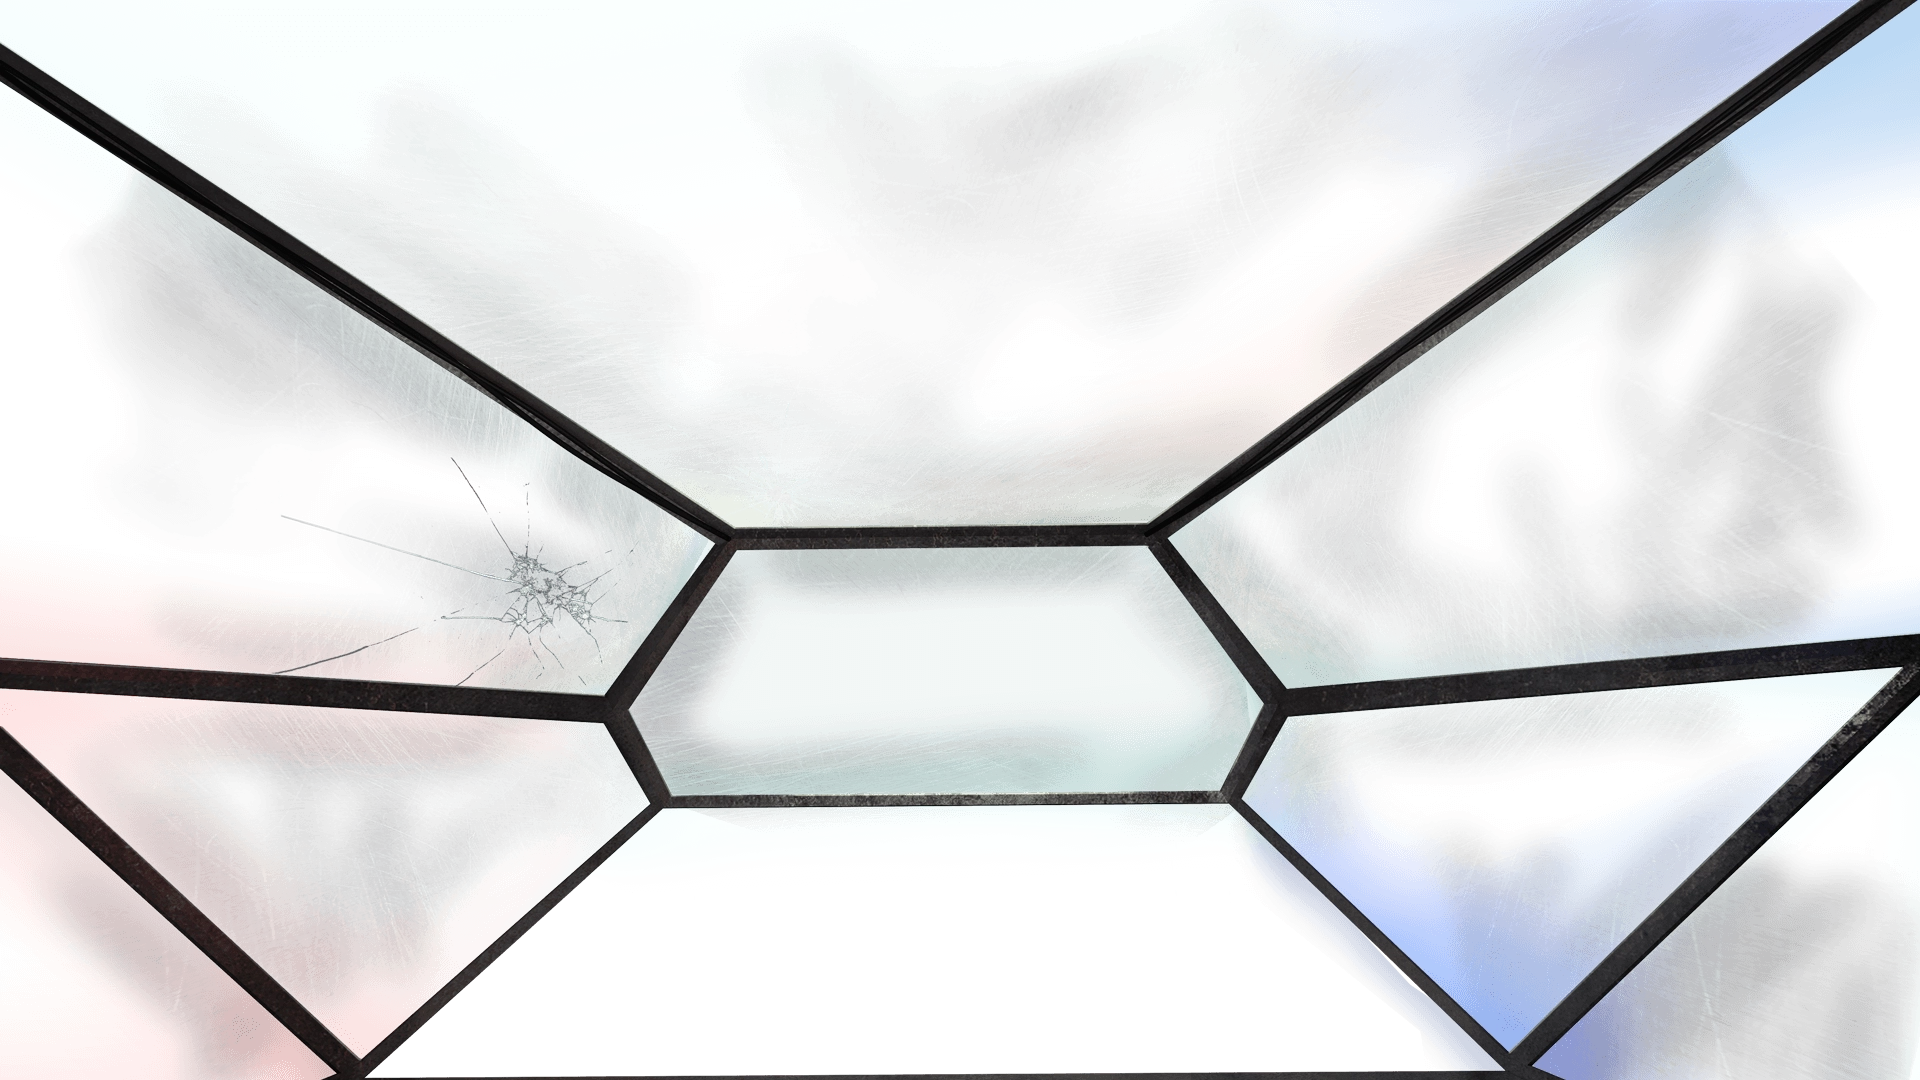
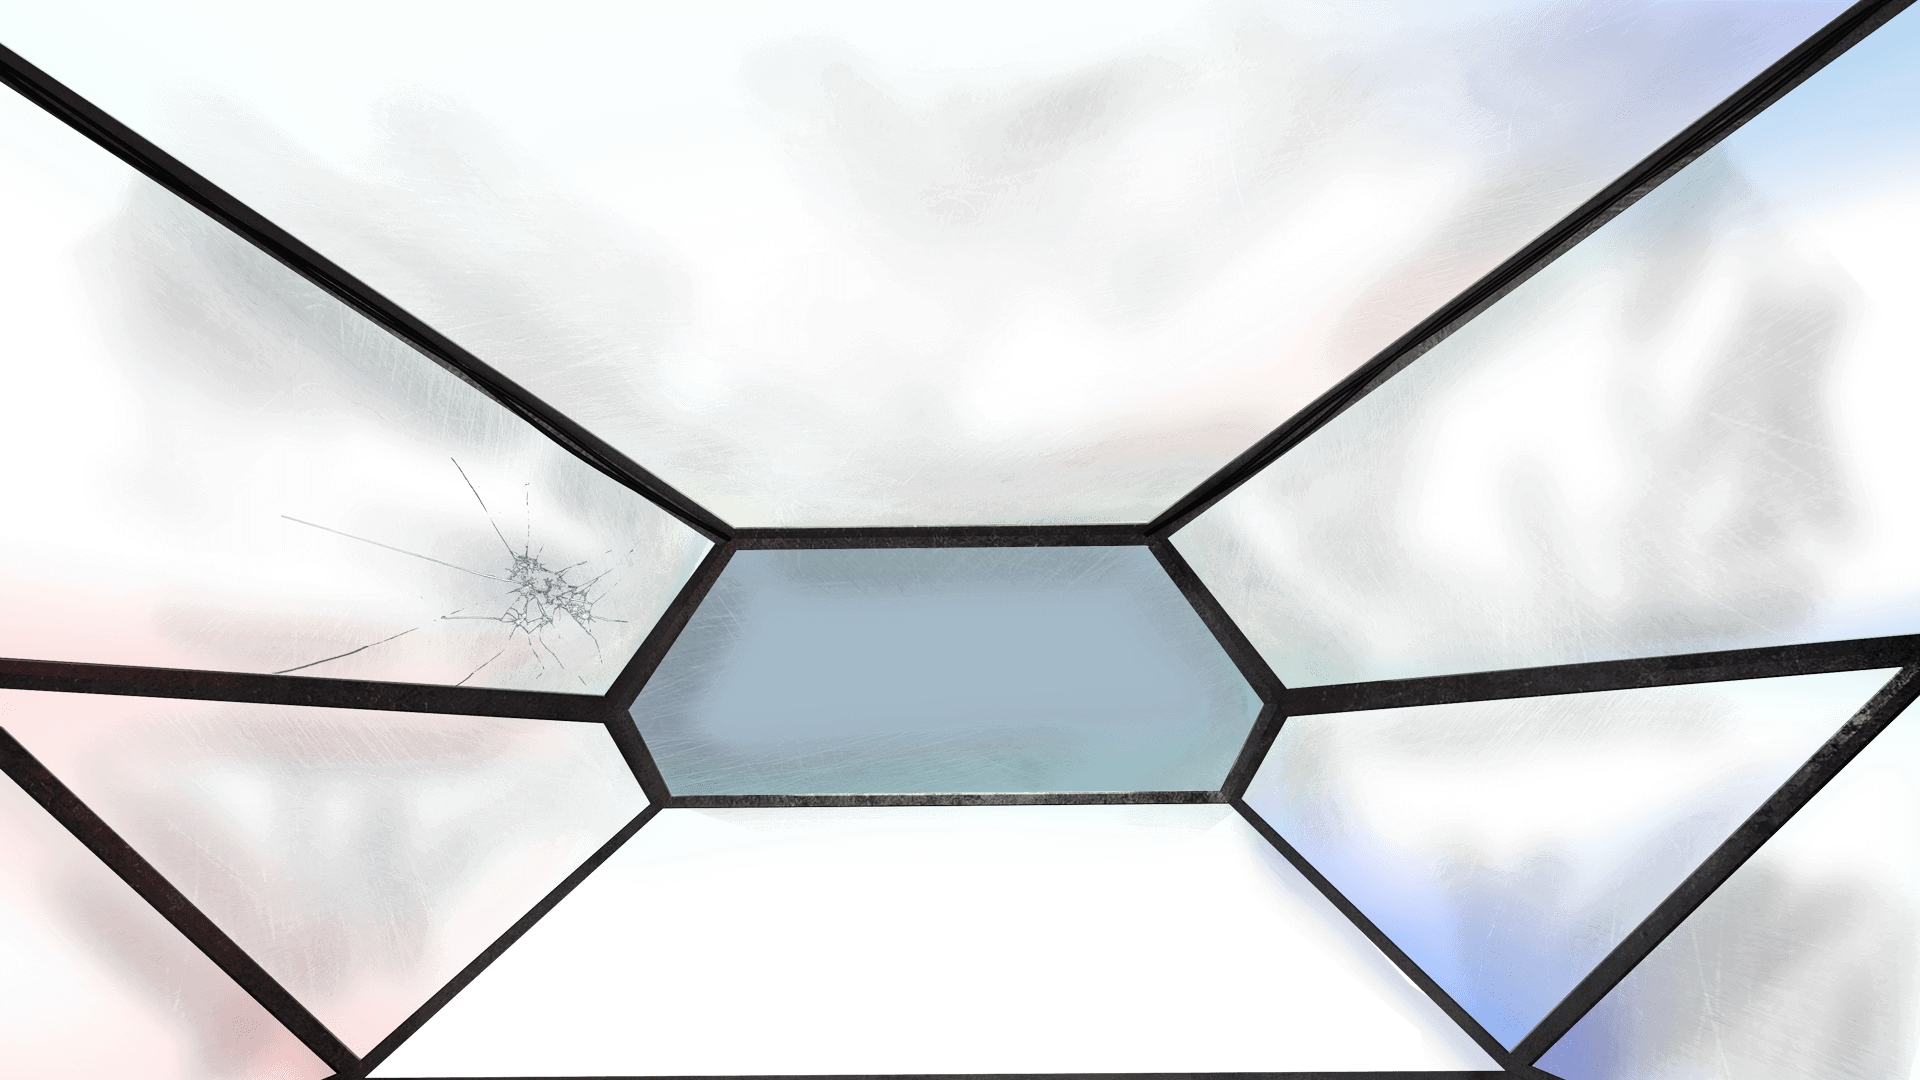
fix: hologram as image

Changed region(s): [[0.3125, 0.4889, 0.6562, 0.7333]]

diff --git a/src/features/mineOwner/cabin/ui/styles.module.scss b/src/features/mineOwner/cabin/ui/styles.module.scss
@@ -18,24 +18,8 @@
   background-image: url('../../../../shared/ui/images/mineowner/mine-owner-cabin-incident.webp');
 }
 
-.glass {
-  &::before {
-    content: '';
-    height: 100vh;
-    width: 100vw;
-    background: url('../../../../shared/ui/images/mineowner/glass.webp') no-repeat center;
-    position: absolute;
-    right: 0;
-    bottom: 0;
-    left: 0;
-    top: 0;
-    z-index: 1;
-    background-size: cover;
-  }
-}
-
 .panel {
-    height: 50vh;
+    height: 40vh;
     background: url('../../../../shared/ui/images/mineowner/panel.webp') no-repeat bottom;
     background-size: contain;
     position: absolute;

diff --git a/src/features/mineOwner/hologram/ui/styles.module.scss b/src/features/mineOwner/hologram/ui/styles.module.scss
@@ -6,12 +6,12 @@
   font-size: 12px;
   position: relative;
   z-index: 1;
-  margin: 5vh auto;
   display: inline-block;
   white-space: pre-line;
+  margin-top: 54vh;
+  max-width: 27vw;
 
   &::after {
-    background: $color-cyan-cyan-5;
     content: '';
     position: absolute;
     left: -10%;
@@ -26,18 +26,6 @@
 
   @media (min-width: $media-mobile-oriental)  {
     font-size: 16px;
-  }
-
-  @media (min-width: $media-tablet)  {
-    margin: 10vh auto;
-  }
-
-  @media (min-width: $media-desktop-s)  {
-    margin: 20vh auto;
-  }
-
-  @media (min-width: $media-desktop-l)  {
-    margin: 4vh auto;
   }
 }
 

diff --git a/src/features/mineOwner/cabin/ui/index.tsx b/src/features/mineOwner/cabin/ui/index.tsx
@@ -15,7 +15,7 @@ export const MineOwnerCabin: FC<Props> = ({ children, state = 'default' }) => {
 
     return (
         <div
-            className={classNames(styles.cabinWrapper, styles.glass, {
+            className={classNames(styles.cabinWrapper, {
                 [styles.cabinDefaultInside]: inLocation.mineDeck,
                 [styles.progress]:
                     state === mineOwnerCabinState.everythingIsDone,

diff --git a/src/features/mineOwner/hologram/ui/index.tsx b/src/features/mineOwner/hologram/ui/index.tsx
@@ -36,7 +36,7 @@ export const Hologram: FC<Props> = ({ user }) => {
     return (
         <div className={styles.hologram}>
             {isDesktop && (
-                <Title fontFamily="orbitron" className={styles.title}>
+                <Title fontFamily="orbitron" level={2} className={styles.title}>
                     {titles[cabinState]}
                 </Title>
             )}

diff --git a/src/pages/mineOwner/styles.module.scss b/src/pages/mineOwner/styles.module.scss
@@ -1,6 +1,17 @@
 
 .hologramWrapper {
-  text-align: center;
+    text-align: center;
+    content: '';
+    height: 100vh;
+    width: 100vw;
+    background: url('../../shared/ui/images/mineowner/glass.webp') no-repeat center;
+    position: absolute;
+    right: 0;
+    bottom: 0;
+    left: 0;
+    top: 0;
+    z-index: 3;
+    background-size: cover;
 }
 
 .header {
